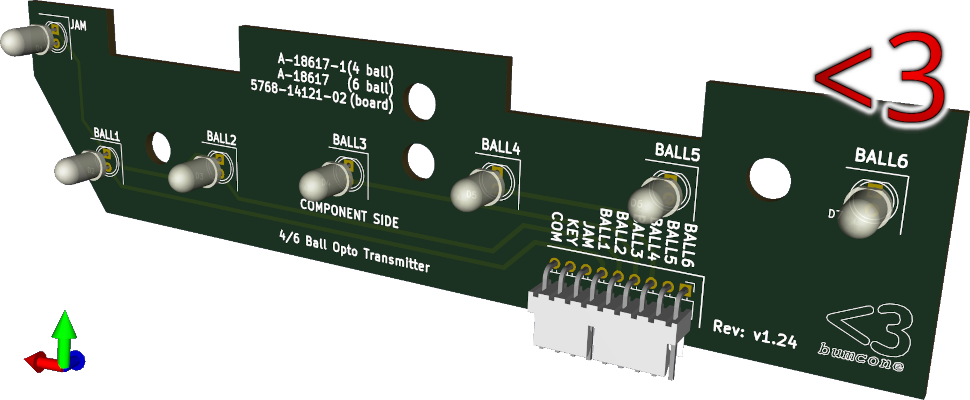
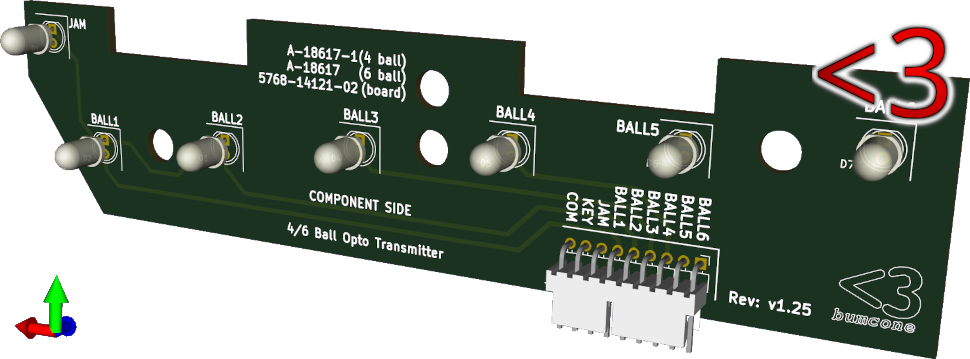
Align LEDs with the center of the trough holes

diff --git a/README.md b/README.md
@@ -59,12 +59,19 @@ The following games used the `A-18617` ( `5768-14121-02` PCB ) board:
 ## LED Alignment
 
 When mounted to a trough ( such as `A-16809-2` ), this board has its LEDs
-aligned close to the bottom of the pill shaped openings. This seems to be a
-similar position to those on the `A-18617` ( `5768-14121-02` PCB ) boards.
+aligned in the center of the pill shaped openings. This seems to be more like
+the alignment of the `A-17982-AI` / `A-17982` / `A-16987` board
+( `5768-13660-01` PCB ) found in other Williams machines. This seems like a
+better spot to put them and for my purpose (homebrew), it does not matter as I
+will align the other board accordingly. If however, you were to use these boards
+with an existing `A-18618` / `A-18618-1` you'd probably want the LEDs to align
+at the bottom, in which case you'd use the
+[bottom aligned](https://github.com/bumcone/pinball_trough_transmitter.A-18617/tree/bottom)
+version of this board.
 
 ## Board design
 
-![Bumcone A-18617 Rev1.24](board.png)
+![Bumcone A-18617 Rev1.25](board.png)
 
 ----
 [//]: # ( vim: set ts=4 sw=4 et cindent tw=80 ai si syn=markdown ft=markdown: )
